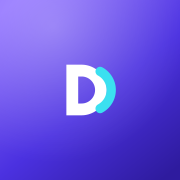
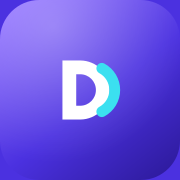
Add files via upload
Add PWA

diff --git a/sw.js b/sw.js
@@ -1,124 +1,84 @@
 /* ═══════════════════════════════════════════════════════════
    DocDesk Service Worker
-   หน้าที่: เก็บไฟล์ไว้ในเครื่องผู้ใช้ เพื่อให้เปิดใช้งานได้แม้ไม่มีอินเทอร์เน็ต
-
-   เวลาอัปเดตโปรแกรม ให้เปลี่ยนเลข VERSION ข้างล่างนี้ทุกครั้ง
-   (เช่น v1 เป็น v2) ผู้ใช้จะได้รับแจ้งเตือนว่ามีเวอร์ชันใหม่
+   กลยุทธ์: Network First — ดึงจากเน็ตก่อนเสมอ (ได้เวอร์ชันล่าสุด)
+   ถ้าไม่มีเน็ตค่อยใช้ไฟล์ที่แคชไว้ในเครื่อง
    ═══════════════════════════════════════════════════════════ */
 
-const VERSION   = 'v18';
-const APP_CACHE = 'docdesk-app-' + VERSION;   /* ไฟล์ของเราเอง */
-const LIB_CACHE = 'docdesk-lib-v1';           /* ไลบรารีจาก CDN (เวอร์ชันตายตัว ไม่ต้องล้างบ่อย) */
+var CACHE_VERSION = 'docdesk-v1';
 
-/* ไฟล์หลักของโปรแกรม เก็บทันทีตอนติดตั้ง */
-const APP_FILES = [
+/* ไฟล์หลักที่ต้องมีไว้ใช้งานตอนไม่มีเน็ต
+   (แก้ path ตรงนี้ถ้าย้ายไฟล์ไอคอนไปที่อื่น) */
+var APP_SHELL = [
   './',
   './index.html',
-  './eraser.html',
-  './upscaler.html',
   './manifest.json',
-  './docdesk-icon-192.png',
-  './docdesk-icon-512.png',
-  './favicon-32.png',
+  './icon-192.png',
+  './icon-512.png',
+  './icon-512-maskable.png',
   './apple-touch-icon.png'
 ];
 
-/* ไลบรารีที่โปรแกรมต้องใช้ เก็บล่วงหน้าเพื่อให้ทำงานออฟไลน์ได้ครบทุกเครื่องมือ */
-const LIB_FILES = [
-  'https://cdnjs.cloudflare.com/ajax/libs/pdf-lib/1.17.1/pdf-lib.min.js',
-  'https://cdnjs.cloudflare.com/ajax/libs/pdf.js/3.11.174/pdf.min.js',
-  'https://cdnjs.cloudflare.com/ajax/libs/pdf.js/3.11.174/pdf.worker.min.js',
-  'https://cdnjs.cloudflare.com/ajax/libs/jszip/3.10.1/jszip.min.js',
-  'https://cdn.jsdelivr.net/npm/heic2any@0.0.4/dist/heic2any.min.js',
-  'https://cdn.jsdelivr.net/npm/utif@3.1.0/UTIF.js'
-];
-
-/* ── ติดตั้ง: เก็บไฟล์ลงเครื่อง ── */
-self.addEventListener('install', event => {
-  event.waitUntil((async () => {
-    const app = await caches.open(APP_CACHE);
-    await app.addAll(APP_FILES);                    /* ไฟล์เราเอง ต้องสำเร็จทุกไฟล์ */
-
-    const lib = await caches.open(LIB_CACHE);
-    /* ไลบรารีเก็บทีละตัว ถ้าตัวใดโหลดไม่ได้ก็ข้ามไป ไม่ให้ล้มทั้งกระบวนการ */
-    await Promise.all(LIB_FILES.map(async url => {
-      try {
-        if (await lib.match(url)) return;
-        const res = await fetch(url, { mode: 'cors', cache: 'no-cache' });
-        if (res && res.ok) await lib.put(url, res.clone());
-      } catch (e) { /* ข้ามไป ค่อยเก็บตอนใช้งานจริง */ }
-    }));
-  })());
+/* ---------- ติดตั้งครั้งแรก: เก็บไฟล์หลักไว้ในแคช ----------
+   เก็บทีละไฟล์แยกกัน (ไม่ใช้ cache.addAll) เพื่อไม่ให้ทั้งชุดล้ม
+   ถ้าวันหลังมีไฟล์ใดไฟล์หนึ่งหายไปหรือเปลี่ยนชื่อโดยลืมแก้ที่นี่ */
+self.addEventListener('install', function (event) {
+  event.waitUntil(
+    caches.open(CACHE_VERSION).then(function (cache) {
+      return Promise.all(
+        APP_SHELL.map(function (url) {
+          return cache.add(url).catch(function () {
+            /* ไฟล์นี้พลาด (หาไม่เจอ/ไม่มีเน็ต) — ข้ามไป ไม่ทำให้ไฟล์อื่นพังตาม */
+          });
+        })
+      );
+    })
+  );
 });
 
-/* ── เปิดใช้งาน: ล้างแคชเวอร์ชันเก่าทิ้ง ── */
-self.addEventListener('activate', event => {
-  event.waitUntil((async () => {
-    const keys = await caches.keys();
-    await Promise.all(keys.map(k => {
-      if (k.startsWith('docdesk-app-') && k !== APP_CACHE) return caches.delete(k);
-      if (k.startsWith('docdesk-lib-') && k !== LIB_CACHE) return caches.delete(k);
-    }));
-    await self.clients.claim();
-  })());
+/* ---------- เปิดใช้งาน: ล้างแคชเวอร์ชันเก่าทิ้ง ---------- */
+self.addEventListener('activate', function (event) {
+  event.waitUntil(
+    caches.keys()
+      .then(function (keys) {
+        return Promise.all(
+          keys.filter(function (k) { return k !== CACHE_VERSION; })
+              .map(function (k) { return caches.delete(k); })
+        );
+      })
+      .then(function () { return self.clients.claim(); })
+  );
 });
 
-/* ── รับคำสั่งจากหน้าเว็บ ── */
-self.addEventListener('message', event => {
-  const data = event.data || {};
-  if (data.type === 'SKIP_WAITING') self.skipWaiting();      /* ผู้ใช้กดอัปเดตเดี๋ยวนี้ */
-  if (data.type === 'GET_VERSION' && event.source) {
-    event.source.postMessage({ type: 'VERSION', version: VERSION });
-  }
+/* ---------- รับคำสั่งข้ามการรอ เมื่อผู้ใช้กด "อัปเดตเลย" ---------- */
+self.addEventListener('message', function (event) {
+  if (event.data && event.data.type === 'SKIP_WAITING') self.skipWaiting();
 });
 
-/* ── ดักการโหลดไฟล์ทุกครั้ง ── */
-self.addEventListener('fetch', event => {
-  const req = event.request;
+/* ---------- ดักทุกคำขอไฟล์: Network First ---------- */
+self.addEventListener('fetch', function (event) {
+  var req = event.request;
+
+  /* แก้เฉพาะคำขอแบบ GET เท่านั้น ปล่อยอย่างอื่น (เช่น POST) ผ่านไปตามปกติ */
   if (req.method !== 'GET') return;
 
-  const url = new URL(req.url);
-  const isLib = /^(cdnjs\.cloudflare\.com|cdn\.jsdelivr\.net|unpkg\.com)$/.test(url.hostname);
-
-  /* ไลบรารีจาก CDN: หยิบจากแคชก่อน (เร็วและใช้ออฟไลน์ได้) */
-  if (isLib) {
-    event.respondWith((async () => {
-      const cached = await caches.match(req);
-      if (cached) return cached;
-      try {
-        const res = await fetch(req);
-        if (res && res.ok) {
-          const lib = await caches.open(LIB_CACHE);
-          lib.put(req, res.clone());
+  event.respondWith(
+    fetch(req)
+      .then(function (res) {
+        /* ได้ของใหม่จากเน็ต → อัปเดตแคชไว้เผื่อครั้งหน้าไม่มีเน็ต */
+        if (res && (res.status === 200 || res.type === 'opaque')) {
+          var copy = res.clone();
+          caches.open(CACHE_VERSION).then(function (cache) { cache.put(req, copy); }).catch(function () {});
         }
         return res;
-      } catch (e) {
-        return new Response('', { status: 504, statusText: 'ออฟไลน์และยังไม่มีไฟล์นี้ในเครื่อง' });
-      }
-    })());
-    return;
-  }
-
-  /* ไฟล์ของเราเอง: ลองโหลดจากเน็ตก่อนเพื่อให้ได้เวอร์ชันล่าสุด ถ้าไม่มีเน็ตค่อยใช้ของในเครื่อง */
-  if (url.origin === self.location.origin) {
-    event.respondWith((async () => {
-      try {
-        const res = await fetch(req);
-        if (res && res.ok) {
-          const app = await caches.open(APP_CACHE);
-          app.put(req, res.clone());
-        }
-        return res;
-      } catch (e) {
-        /* หาแบบตรงตัวก่อน แล้วค่อยหาแบบไม่สนใจ ?query (เช่น eraser.html?embed=1) */
-        const cached = await caches.match(req) || await caches.match(req, { ignoreSearch: true });
-        if (cached) return cached;
-        if (req.mode === 'navigate') {
-          const home = await caches.match('./index.html');
-          if (home) return home;
-        }
-        return new Response('ออฟไลน์', { status: 503 });
-      }
-    })());
-  }
+      })
+      .catch(function () {
+        /* ไม่มีเน็ต → ใช้ของที่แคชไว้ */
+        return caches.match(req).then(function (cached) {
+          if (cached) return cached;
+          /* เปิดหน้าเว็บตอนไม่มีเน็ตและไม่เคยแคชไว้ → กลับไปหน้าแรกที่แคชไว้แทน */
+          if (req.mode === 'navigate') return caches.match('./index.html');
+          return new Response('', { status: 504, statusText: 'ไม่มีเน็ตและไม่มีไฟล์นี้ในแคช' });
+        });
+      })
+  );
 });
